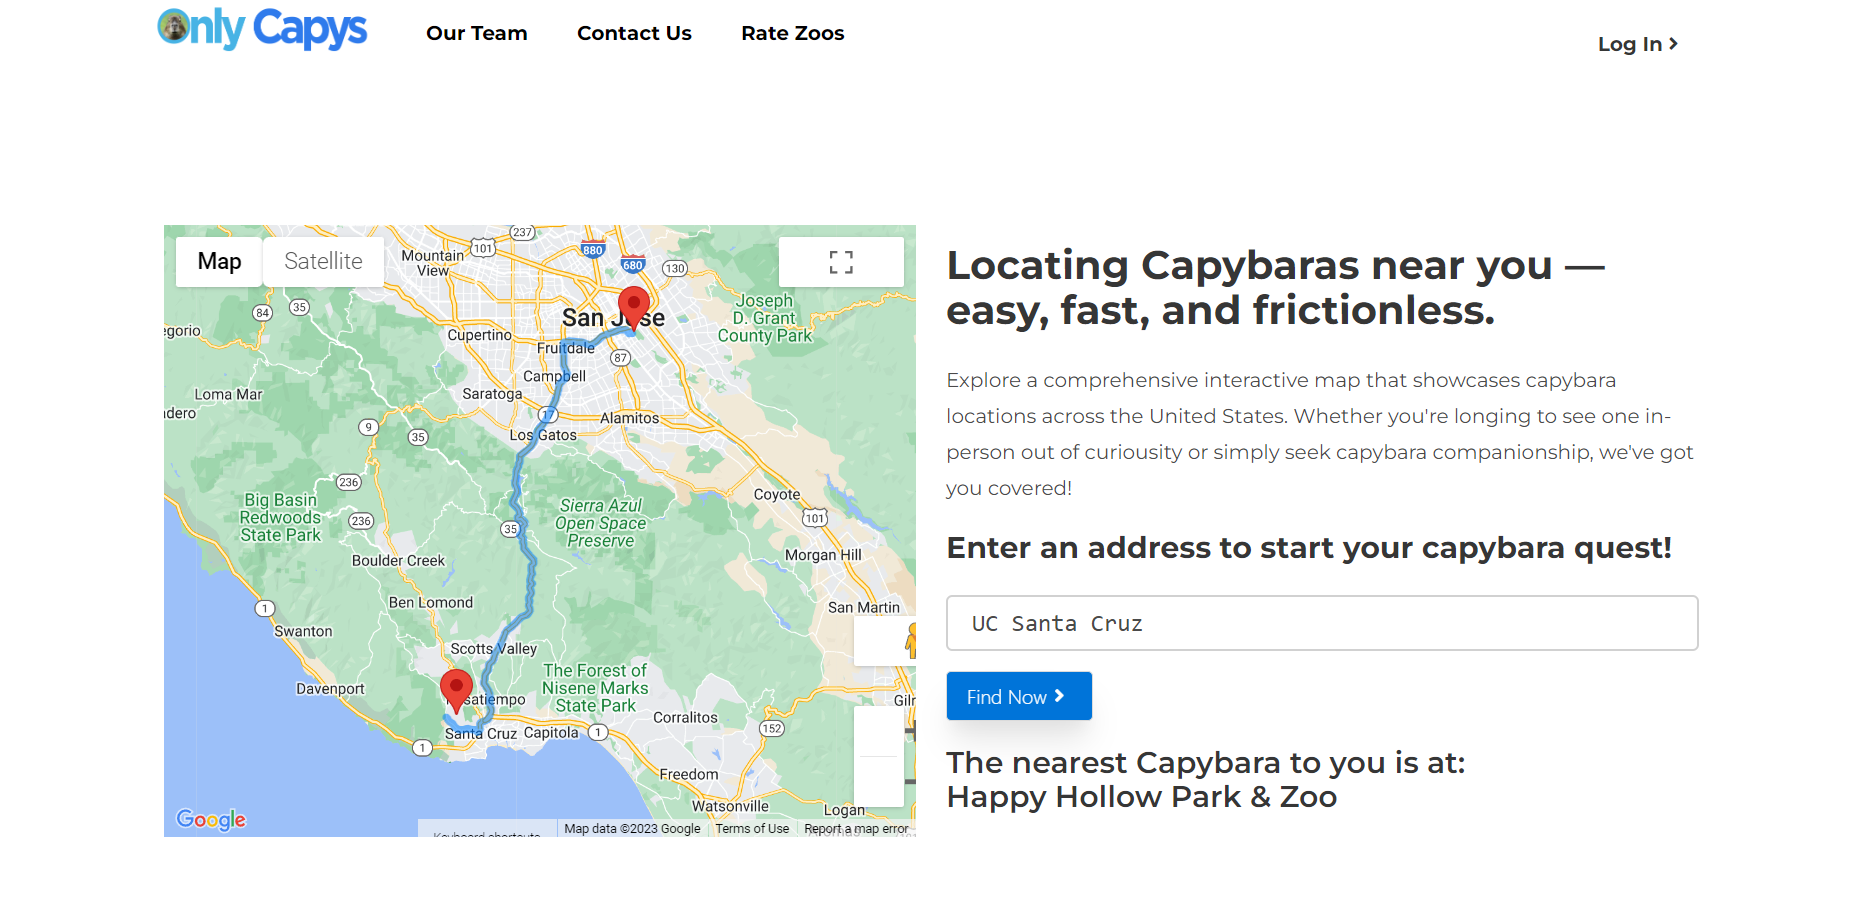
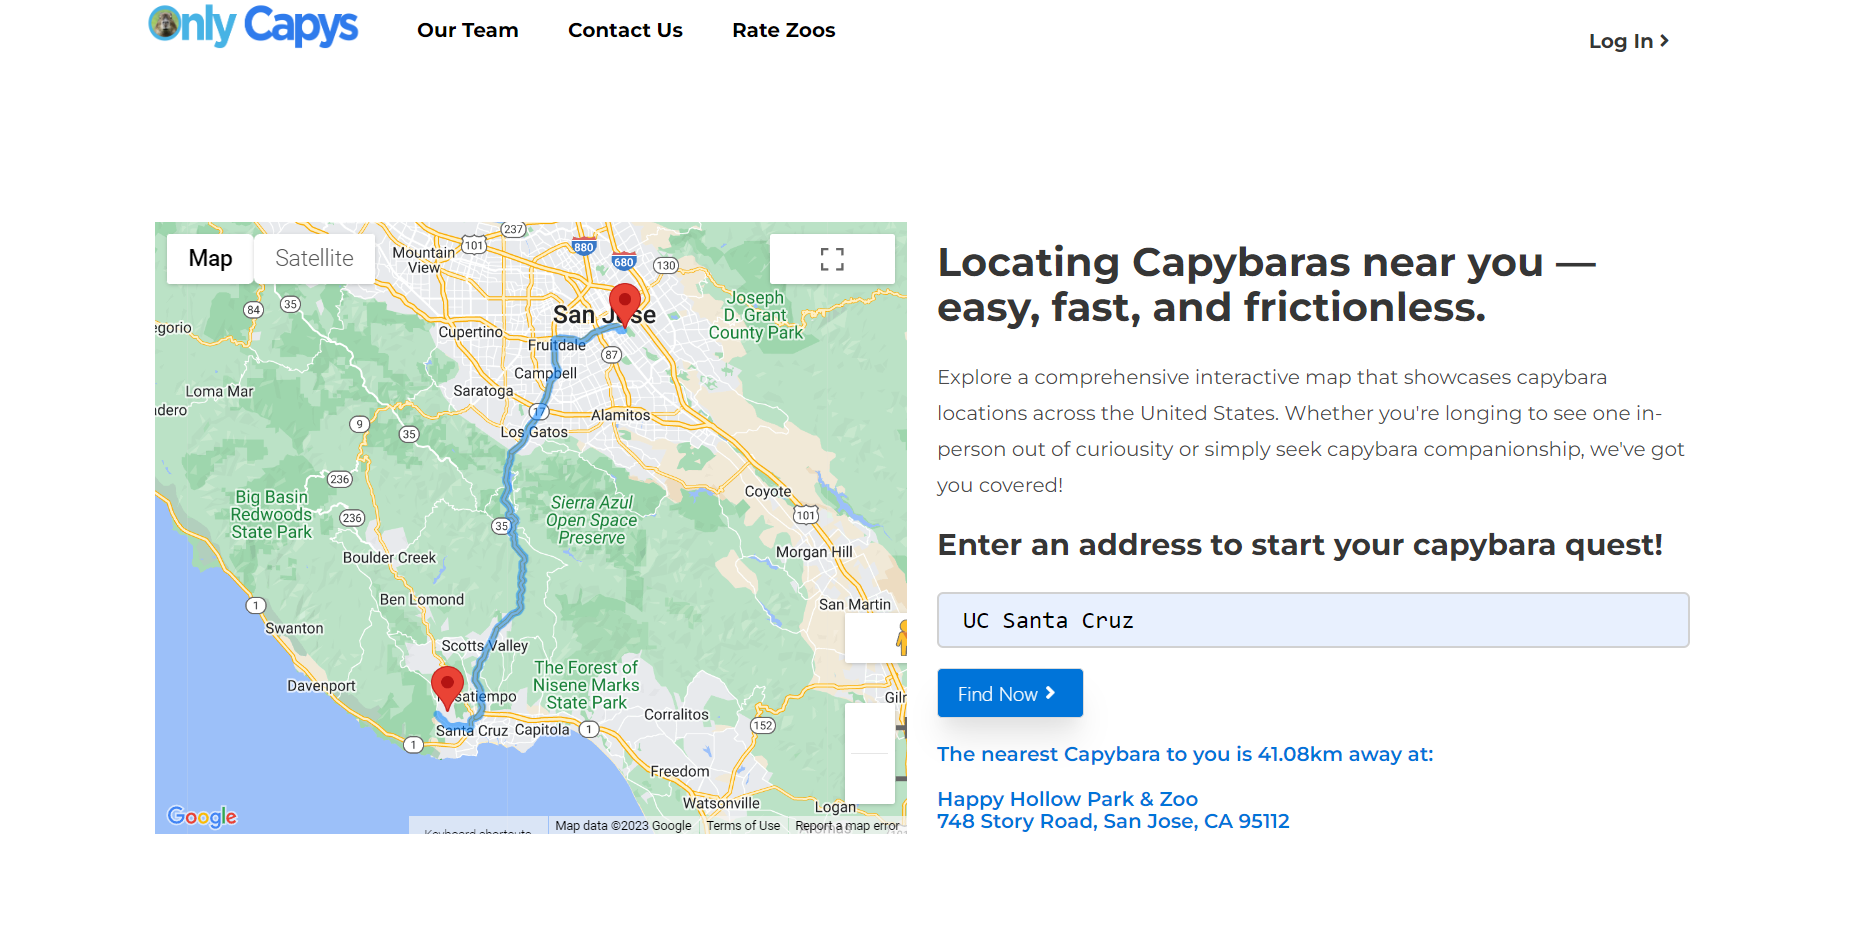
Replace index1.png and update index.html

diff --git a/apps/onlycapys/templates/index.html b/apps/onlycapys/templates/index.html
@@ -87,7 +87,7 @@
         <i class="fa fa-angle-right fa-fw" aria-hidden="true"></i>
       </button>
       <br>
-      <div class="title is-size-4">
+      <div class="title is-size-6">
         <span id="closestZoo"></span>
       </div>
 
